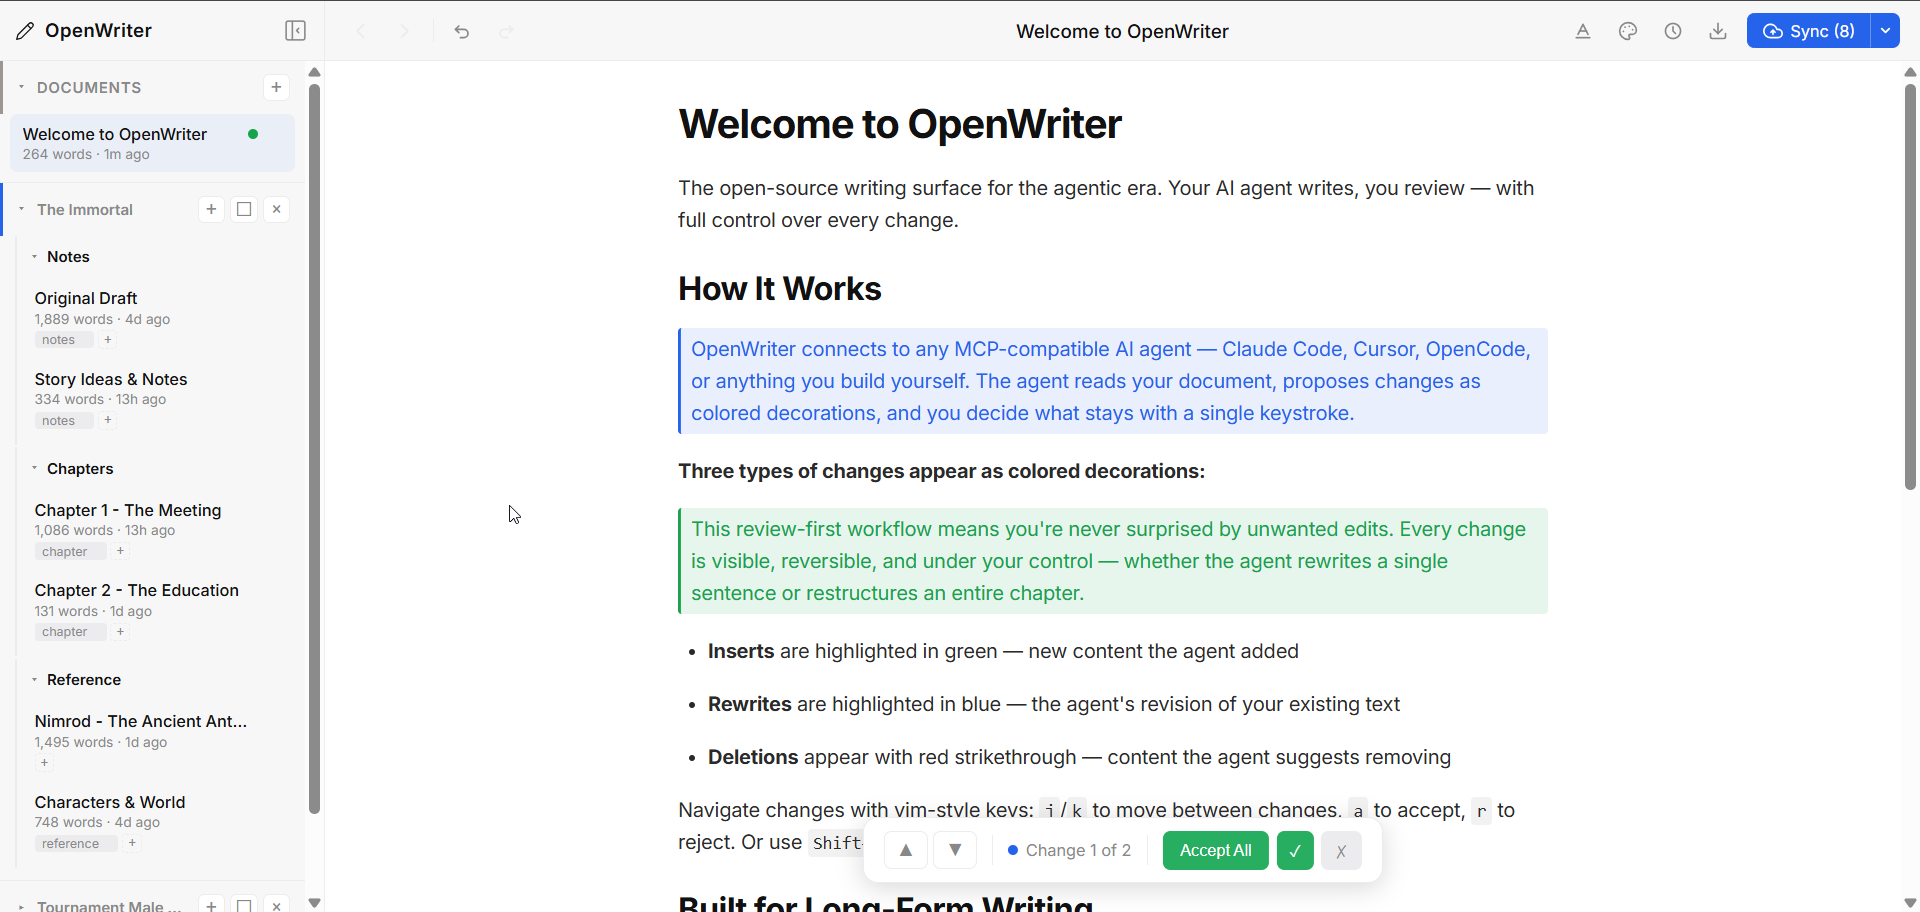
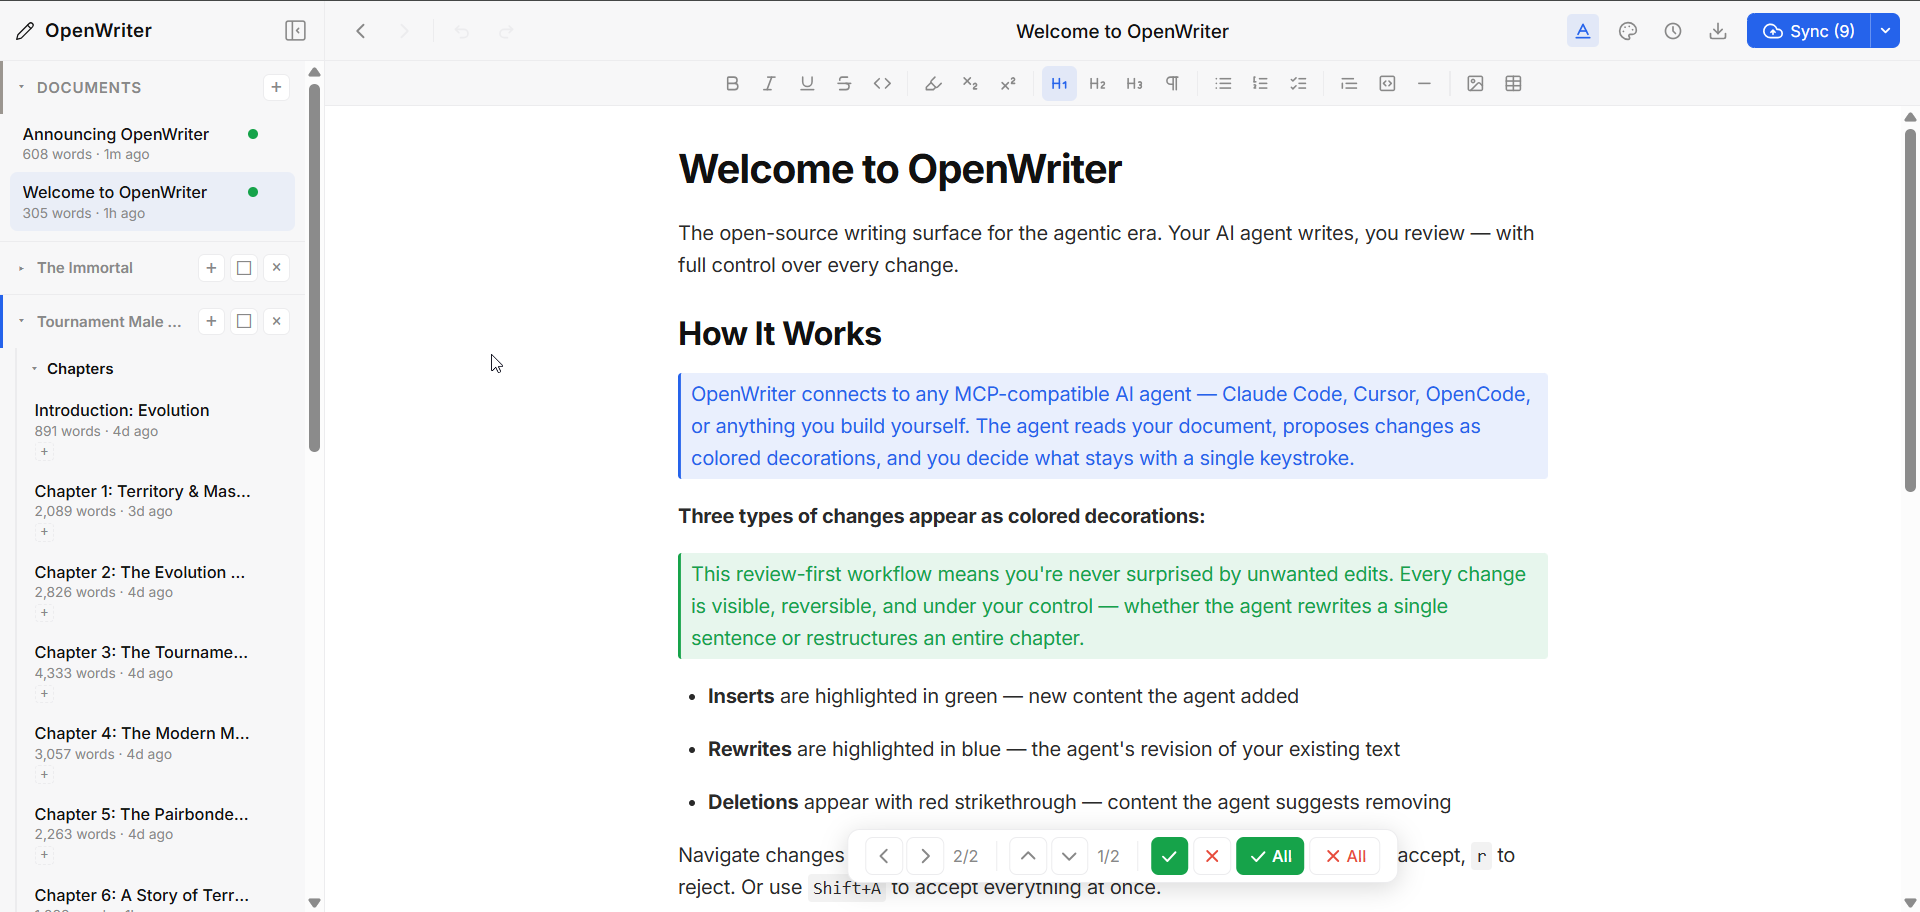
Update screenshot and SKILL.md for dual-entry orientation
New README screenshot showing sidebar + review panel. SKILL.md now
detects whether MCP tools are available to orient skill-first users
(from directories) vs npm-first users (install-skill CLI).

diff --git a/packages/openwriter/skill/SKILL.md b/packages/openwriter/skill/SKILL.md
@@ -1,39 +1,53 @@
 ---
 name: openwriter
 description: |
-  OpenWriter — local TipTap editor for human-agent collaboration.
-  Agent reads/edits documents via MCP tools (read_pad, write_to_pad, etc.).
-  Changes appear as pending decorations the user accepts or rejects.
-  Multi-document workspace with sidebar navigation.
+  OpenWriter — the writing surface for AI agents. A markdown-native rich text
+  editor where agents write via MCP tools and users accept or reject changes
+  in-browser. 24 tools for document editing, multi-doc workspaces, and
+  organization. Plain .md files on disk — no database, no lock-in.
 
   Use when user says: "open writer", "openwriter", "write in openwriter",
-  "edit my document", "review my writing", "check the pad".
+  "edit my document", "review my writing", "check the pad", "write me a doc".
 
   Requires: OpenWriter MCP server configured. Browser UI at localhost:5050.
+metadata:
+  author: travsteward
+  version: "0.2.0"
+  repository: https://github.com/travsteward/openwriter
+license: MIT
 ---
 
-# OpenWriter — Public Companion Skill
+# OpenWriter Skill
 
-You are a writing collaborator. The user has a document open in OpenWriter (http://localhost:5050). You read their document and make edits **exclusively via MCP tools**. Edits appear as pending decorations (colored highlights) that the user can accept or reject.
+You are a writing collaborator. You read documents and make edits **exclusively via MCP tools**. Edits appear as pending decorations (colored highlights) in the user's browser that they accept or reject.
 
-**First action when activated:** Always share the browser URL:
-> OpenWriter is at **http://localhost:5050**
+## Setup — Which Path?
 
-## Quick Setup
+Check whether the `open-writer` MCP tools are available (e.g. `read_pad`, `write_to_pad`). This determines setup state:
 
-OpenWriter must be configured as an MCP server before use. Two paths:
+### MCP tools ARE available (ready to use)
 
-### Option A: User runs it from their terminal (outside Claude Code)
+The user already has OpenWriter configured — either they ran `npx openwriter install-skill` (which installed this skill) and added the MCP server, or they set it up manually. You're good to go.
+
+**First action:** Share the browser URL:
+> OpenWriter is at **http://localhost:5050** — open it in your browser to see and review changes.
+
+Skip to [Writing Strategy](#writing-strategy) below.
+
+### MCP tools are NOT available (skill-first install)
+
+The user installed this skill from a directory but hasn't set up the MCP server yet. OpenWriter needs an MCP server to provide the 24 editing tools.
+
+**Step 1:** Tell the user to install the npm package and MCP server:
 
 ```bash
+# Add the OpenWriter MCP server to Claude Code
 claude mcp add -s user open-writer -- npx openwriter --no-open
 ```
 
-Then restart the Claude Code session. The MCP tools become available automatically.
+Then restart the Claude Code session. The MCP tools become available on next launch.
 
-### Option B: Agent configures it (when user asks you to set it up)
-
-Edit `~/.claude.json` and add to the `mcpServers` object:
+**Step 2 (if the user can't run the command above):** Edit `~/.claude.json` directly. Add to the `mcpServers` object:
 
 ```json
 "open-writer": {
@@ -42,7 +56,7 @@ Edit `~/.claude.json` and add to the `mcpServers` object:
 }
 ```
 
-The `mcpServers` key is at the top level of `~/.claude.json`. If it doesn't exist, create it. Example:
+The `mcpServers` key is at the top level of `~/.claude.json`. If it doesn't exist, create it:
 
 ```json
 {
@@ -56,10 +70,10 @@ The `mcpServers` key is at the top level of `~/.claude.json`. If it doesn't exis
 ```
 
 After editing, tell the user:
-1. Restart your Claude Code session (the MCP server loads on startup)
+1. Restart your Claude Code session (MCP servers load on startup)
 2. Open http://localhost:5050 in your browser
 
-**Note:** You cannot run `claude mcp add` from inside a session (nested session error). That's why we edit the JSON directly.
+**Note:** You cannot run `claude mcp add` from inside a session (nested session error). That's why we edit the JSON directly when configuring from within Claude Code.
 
 ## MCP Tools Reference (24 tools)
 
@@ -166,7 +180,7 @@ After editing, tell the user:
 
 ## Troubleshooting
 
-**MCP tools not available** — Run `/mcp` in Claude Code to check connection status. Click reconnect if needed.
+**MCP tools not available** — The OpenWriter MCP server isn't configured yet. Follow the [setup instructions](#mcp-tools-are-not-available-skill-first-install) above. After adding the MCP config, the user must restart their Claude Code session.
 
 **Port 5050 busy** — Another OpenWriter instance owns the port. New sessions auto-enter client mode (proxying via HTTP) — tools still work. No action needed.
 
